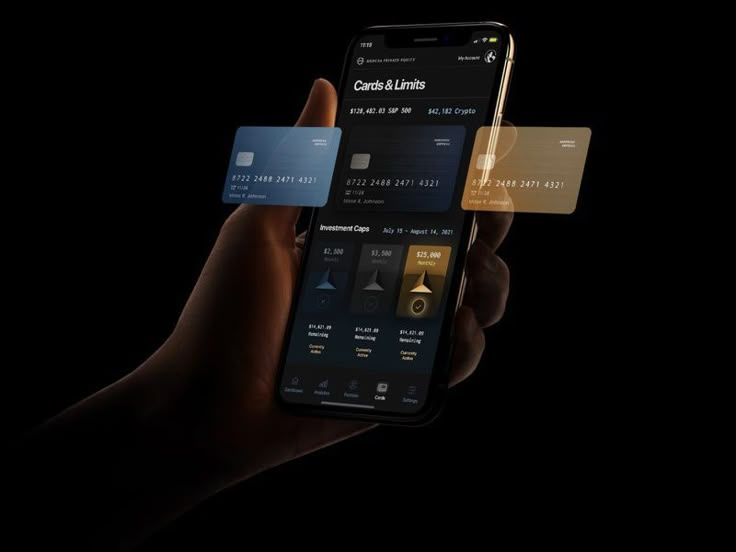
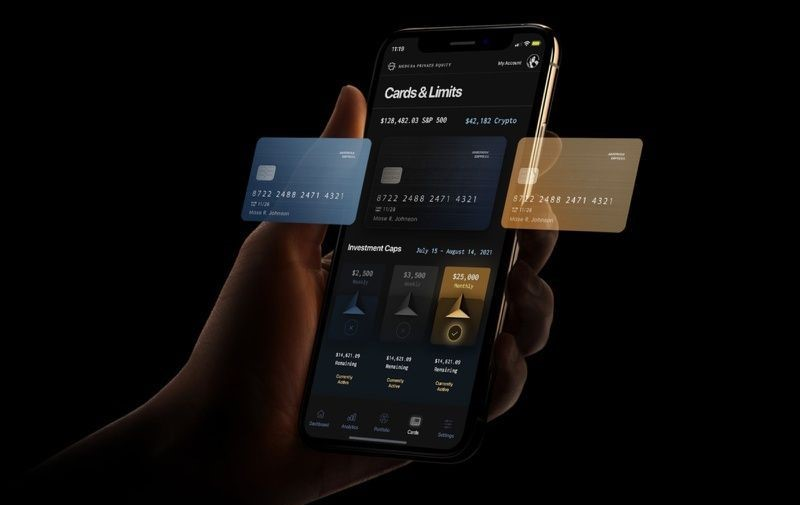
Add files via upload
New fees for revolut changed in JS / brokers compare

diff --git a/assets/js/broker-compare.js b/assets/js/broker-compare.js
@@ -32,7 +32,7 @@
         { id: 'etoro', name: 'eToro', infoUrl: 'https://www.etoro.com/', infoTooltip: 'Club membership with benefits, copy trading, zero commission, $5 withdrawal ($0 with some membership), inactivity fee after 12 months.', maintenance: '€0', stocksFees: '€0', etfFees: '€0', fxFee: '0.5%', minDeposit: '€50', withdrawal: '€0 to €5', inactivity: '€10/mo', securitiesTransfer: 'Yes $75 Fee (ACATS)', regulator: 'FCA/CySEC/CNMV (Listed Company "ETOR")', protection: '€20k' },
         { id: 'degiro', name: 'DeGiro', infoUrl: 'https://www.degiro.es/', infoTooltip: 'Dutch broker, low fees, wide market access, no inactivity fee, AFM regulated.', maintenance: '€0', stocksFees: '€1-3', etfFees: '€1', fxFee: '0.25%', minDeposit: '€0', withdrawal: '€0', inactivity: '€0', securitiesTransfer: 'With fee', regulator: 'FCA/AFM/BaFin/CNMV (Listed Company "FTK")', protection: '€100k' },
         { id: 'ibkr', name: 'Interactive Brokers', infoUrl: 'https://www.interactivebrokers.com/es/home.php', infoTooltip: 'Global access, respected and listed company, advanced platform, very low FX fee, wide asset range, FCA/CBI regulated.', maintenance: '€0', stocksFees: '€1', etfFees: '€1', fxFee: '0.002%', minDeposit: '€0', withdrawal: '€0', inactivity: '€0', securitiesTransfer: 'With fee', regulator: 'FCA/CBI (Listed Company "IBKR")', protection: '€20k + insurance' },
-        { id: 'revolut', name: 'Revolut', infoUrl: 'https://revolut.com/referral/?referral-code=lucasv5js!MAY2-26-AR-H1&geo-redirect', infoTooltip: 'App-based Bank, free plan has limits, paid plans offer more trades, FX up to 1%, FCA regulated.', maintenance: '€0-€450', stocksFees: '0.25%', etfFees: '0.25%', fxFee: '0.5% to 1%', minDeposit: '€0', withdrawal: '€0', inactivity: '€0', securitiesTransfer: 'With fee', regulator: 'FCA/CNMV/MiFID (Bank)', protection: '€100k' },
+        { id: 'revolut', name: 'Revolut', infoUrl: 'https://revolut.com/referral/?referral-code=lucasv5js!MAY2-26-AR-H1&geo-redirect', infoTooltip: 'App-based Bank, free plan has limits, paid plans offer more free trades, €1 flat fee per trade after allowance, FX up to 1%, FCA regulated.', maintenance: '€0-€450', stocksFees: '€1', etfFees: '€1', fxFee: '0.5% to 1%', minDeposit: '€0', withdrawal: '€0', inactivity: '€0', securitiesTransfer: 'With fee', regulator: 'FCA/CNMV/MiFID (Bank)', protection: '€100k' },
         { id: 'scalable', name: 'Scalable Capital', infoUrl: 'https://es.scalable.capital/en/invitation/bfw4z8', infoTooltip: "German broker, low-cost trading, information is from their free plan 'FREE BROKER', savings plan orders are free and some of their ETFs too.", maintenance: '€0-€59.88', stocksFees: '€0.99', etfFees: '€0.99', fxFee: '0.99%', minDeposit: '€0', withdrawal: '€0', inactivity: '€0', securitiesTransfer: 'Yes', regulator: 'FCA/BaFin/AMF/CONSOB/CNMV/FMA (Bank)', protection: '€100k' },
         { id: 'freedom24', name: 'Freedom24', infoUrl: 'https://lp.freedom24.com/', infoTooltip: 'Freedom Holding Corp. is a NASDAQ-listed public company, monthly fee based on filled contracts, varies with activity. Watch out for the fees!', maintenance: '€0', stocksFees: '0.5% +€0.012', etfFees: '0.5% +€0.012', fxFee: '0.01%', minDeposit: '€0', withdrawal: '€7', inactivity: '€0', securitiesTransfer: '€100 per ISIN', regulator: 'CySEC/MiFID/SEC/BaFin (Listed Company "FRHC")', protection: '€20k' },
         { id: 'neverless', name: 'Neverless', infoUrl: 'https://neverless.com/referral?code=lucson', infoTooltip: 'Neverless 1,000+ US stocks. 400+ ETFs. 0 fees. Up to 5x leverage.Deposit EUR, USD, or stablecoins. You earn dividends, and you also earn daily interest on your uninvested balance.', maintenance: '€0', stocksFees: '€0', etfFees: '€0', fxFee: '0.0%', minDeposit: '€0', withdrawal: '€0', inactivity: '€0', securitiesTransfer: 'No', regulator: 'MICA/MiFID II', protection: 'No insurance' },
